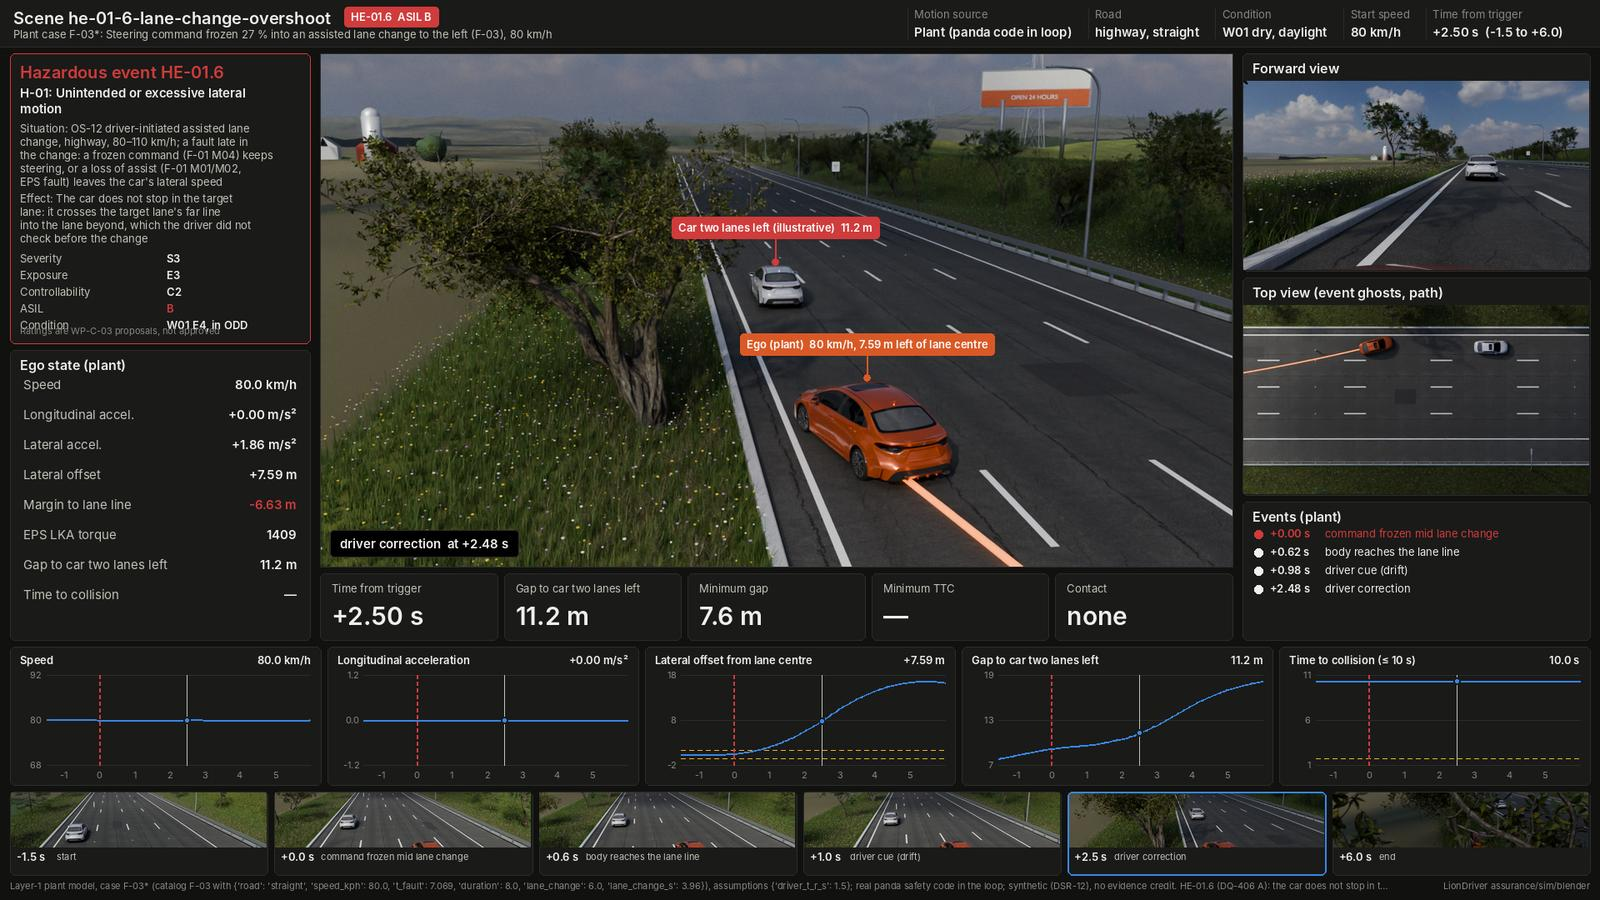
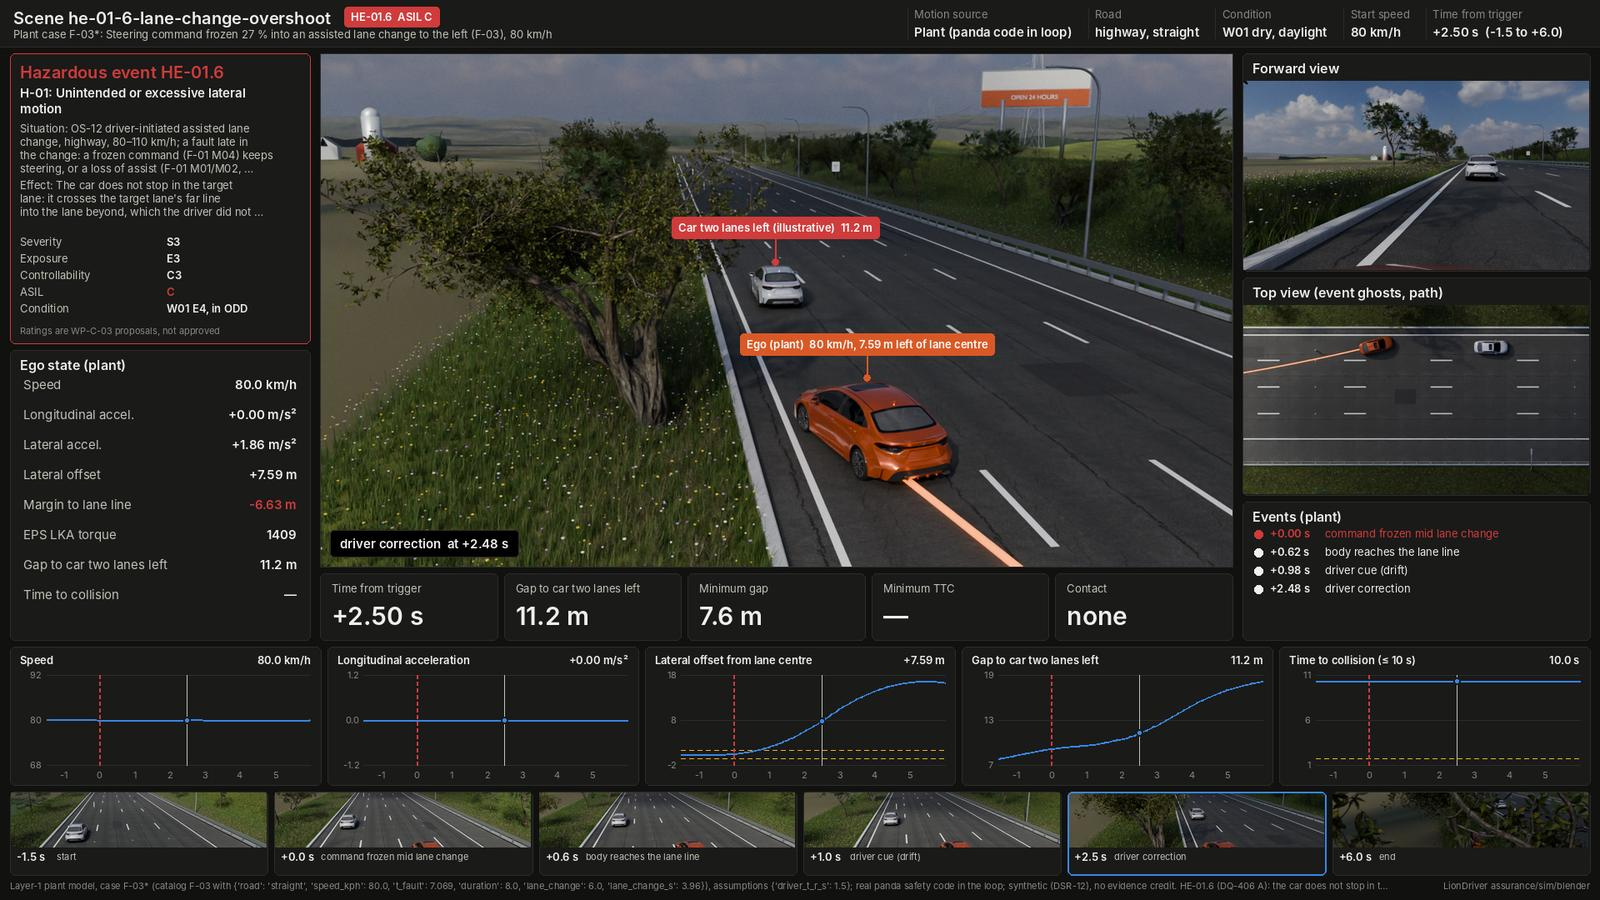
compose.py: keep a long hazard entry clear of the rating rows; HE-01.6 dashboard
The situation and effect lines now share the space above the rating rows
and end with an ellipsis when they do not fit, so a long entry (HE-01.6)
no longer runs into the ASIL and condition rows. Entries that fit are
drawn as before. HE-01.6's dashboard is recomposed: it also shows the
C3 / ASIL C rating the lead chose (DQ-418) instead of C2 / ASIL B.

Claude-Session: https://claude.ai/code/session_015EdyUxcDvddf2Em4FSpR9W

Changed region(s): [[0.0, 0.1867, 0.1562, 0.3733]]

diff --git a/assurance/sim/blender/compose.py b/assurance/sim/blender/compose.py
@@ -69,10 +69,20 @@ def fit(img: Image.Image, w: int, h: int) -> Image.Image:
   return img.crop((x, y, x + w, y + h))
 
 
-def wrap(d, xy, text: str, f, fill, width_px: int, gap: int = 4) -> int:
-  x, y = xy
+def wrap_lines(text: str, f, width_px: int) -> list[str]:
   avg = max(1, f.getlength("abcdefghijklmnopqrstuvwxyz") / 26)
-  for line in textwrap.wrap(text, max(10, int(width_px / avg))):
+  return textwrap.wrap(text, max(10, int(width_px / avg)))
+
+
+def wrap(d, xy, text: str, f, fill, width_px: int, gap: int = 4, max_lines: int | None = None) -> int:
+  """Draw text wrapped to width_px; with max_lines, a longer text ends its last line with an ellipsis."""
+  x, y = xy
+  lines = wrap_lines(text, f, width_px)
+  if max_lines is not None and len(lines) > max_lines:
+    lines = lines[:max(max_lines, 0)]
+    if lines:
+      lines[-1] = clip(lines[-1] + " …", f, width_px)
+  for line in lines:
     d.text((x, y), line, font=f, fill=fill)
     y += f.size + gap
   return y
@@ -251,13 +261,21 @@ def frame(sc: dict, screen: dict, keys: list[dict], views: dict[str, Path], i: i
   d.text((24, 74), ("Hazardous event " if cd["kind"] == "HARA" else "SOTIF hazard ") + cd["id"], font=F["h1"],
          fill=CRITICAL)
   y = wrap(d, (24, 102), cd["title"], F["bs"], TEXT, 330)
-  y = wrap(d, (24, y + 6), "Situation: " + cd["situation"], F["s"], TEXT2, 330, 3)
-  y = wrap(d, (24, y + 4), "Effect: " + cd["effect"], F["s"], TEXT2, 330, 3)
   extra = []
   if cd["kind"] == "HARA" and (cd.get("tc") or cd.get("ks")):
     extra = [r for r in (["Triggering condition", ", ".join(cd["tc"])], ["Known scenario", ", ".join(cd["ks"])]) if r[1]]
   rows = cd["rows"] + extra
-  y = max(y + 8, hb[3] - 30 - 20 * len(rows))
+  rows_top = hb[3] - 30 - 20 * len(rows)
+  # the situation and effect share the space above the rows, so a long entry never runs into them
+  sit, eff = "Situation: " + cd["situation"], "Effect: " + cd["effect"]
+  n_sit, n_eff = len(wrap_lines(sit, F["s"], 330)), len(wrap_lines(eff, F["s"], 330))
+  budget = max(2, (rows_top - 8 - (y + 10)) // (F["s"].size + 3))
+  if n_sit + n_eff > budget:
+    n_eff = min(n_eff, max(1, budget // 2))
+    n_sit = budget - n_eff
+  y = wrap(d, (24, y + 6), sit, F["s"], TEXT2, 330, 3, n_sit)
+  y = wrap(d, (24, y + 4), eff, F["s"], TEXT2, 330, 3, n_eff)
+  y = max(y + 8, rows_top)
   for k, v in rows:
     d.text((24, y), k, font=F["s"], fill=TEXT2)
     d.text((200, y), clip(str(v), F["ss"], 160), font=F["ss"], fill=CRITICAL if k == "ASIL" else TEXT)
